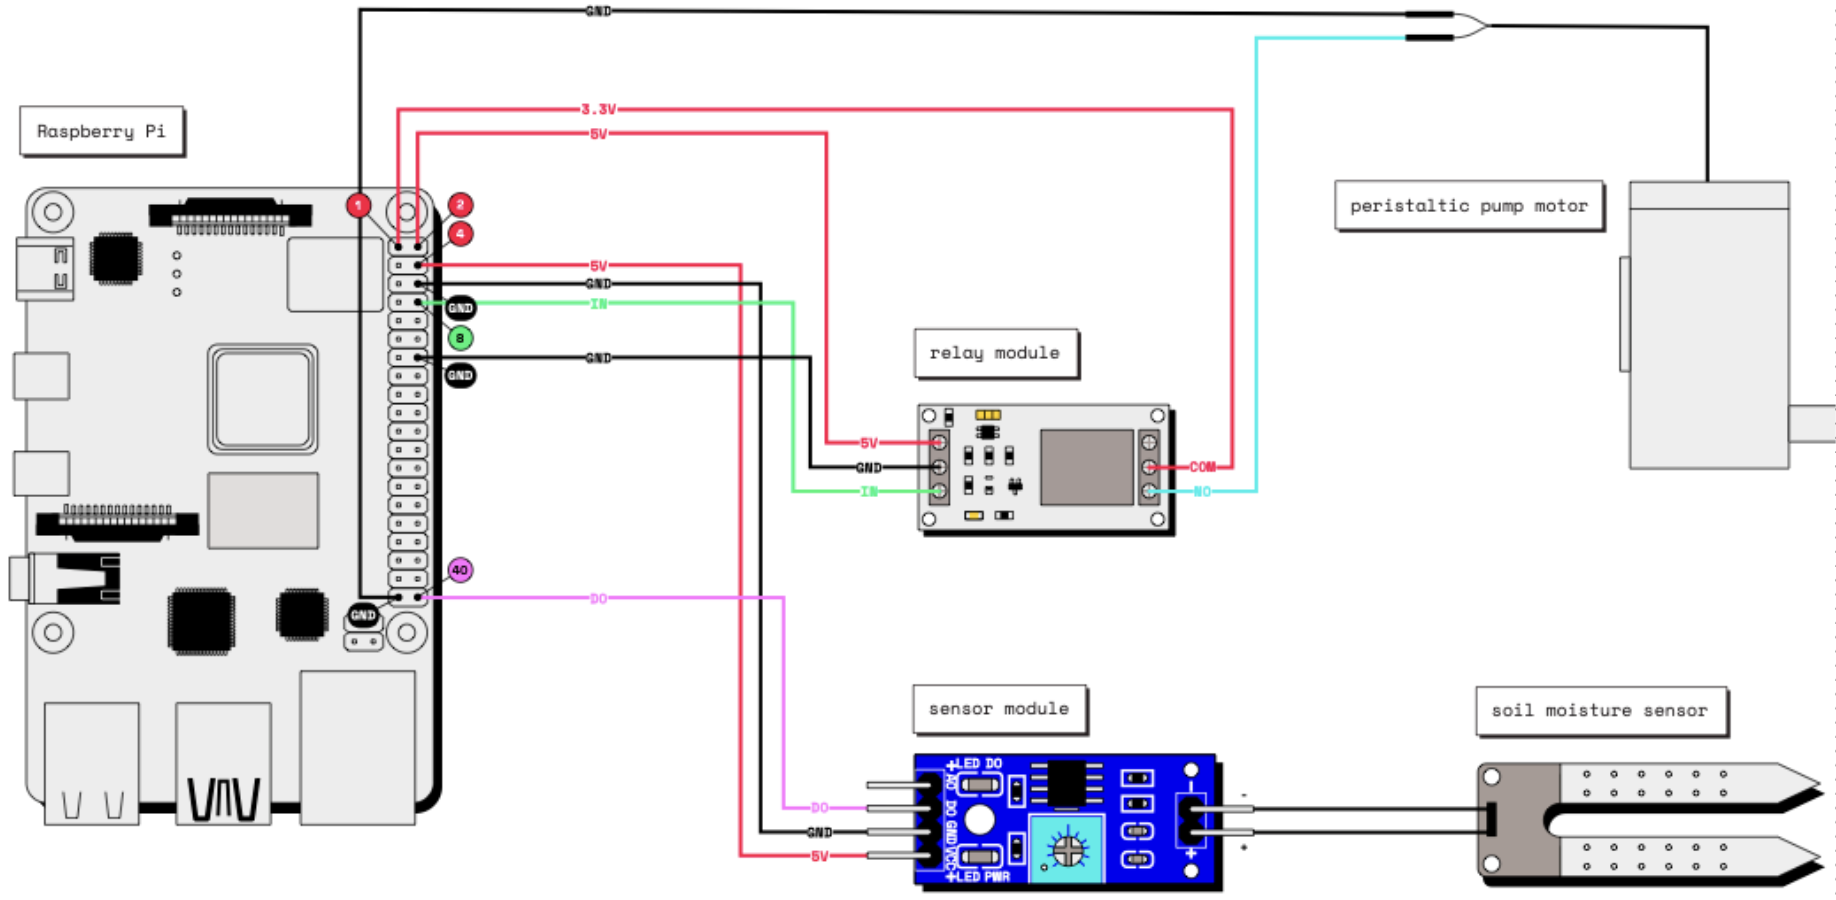
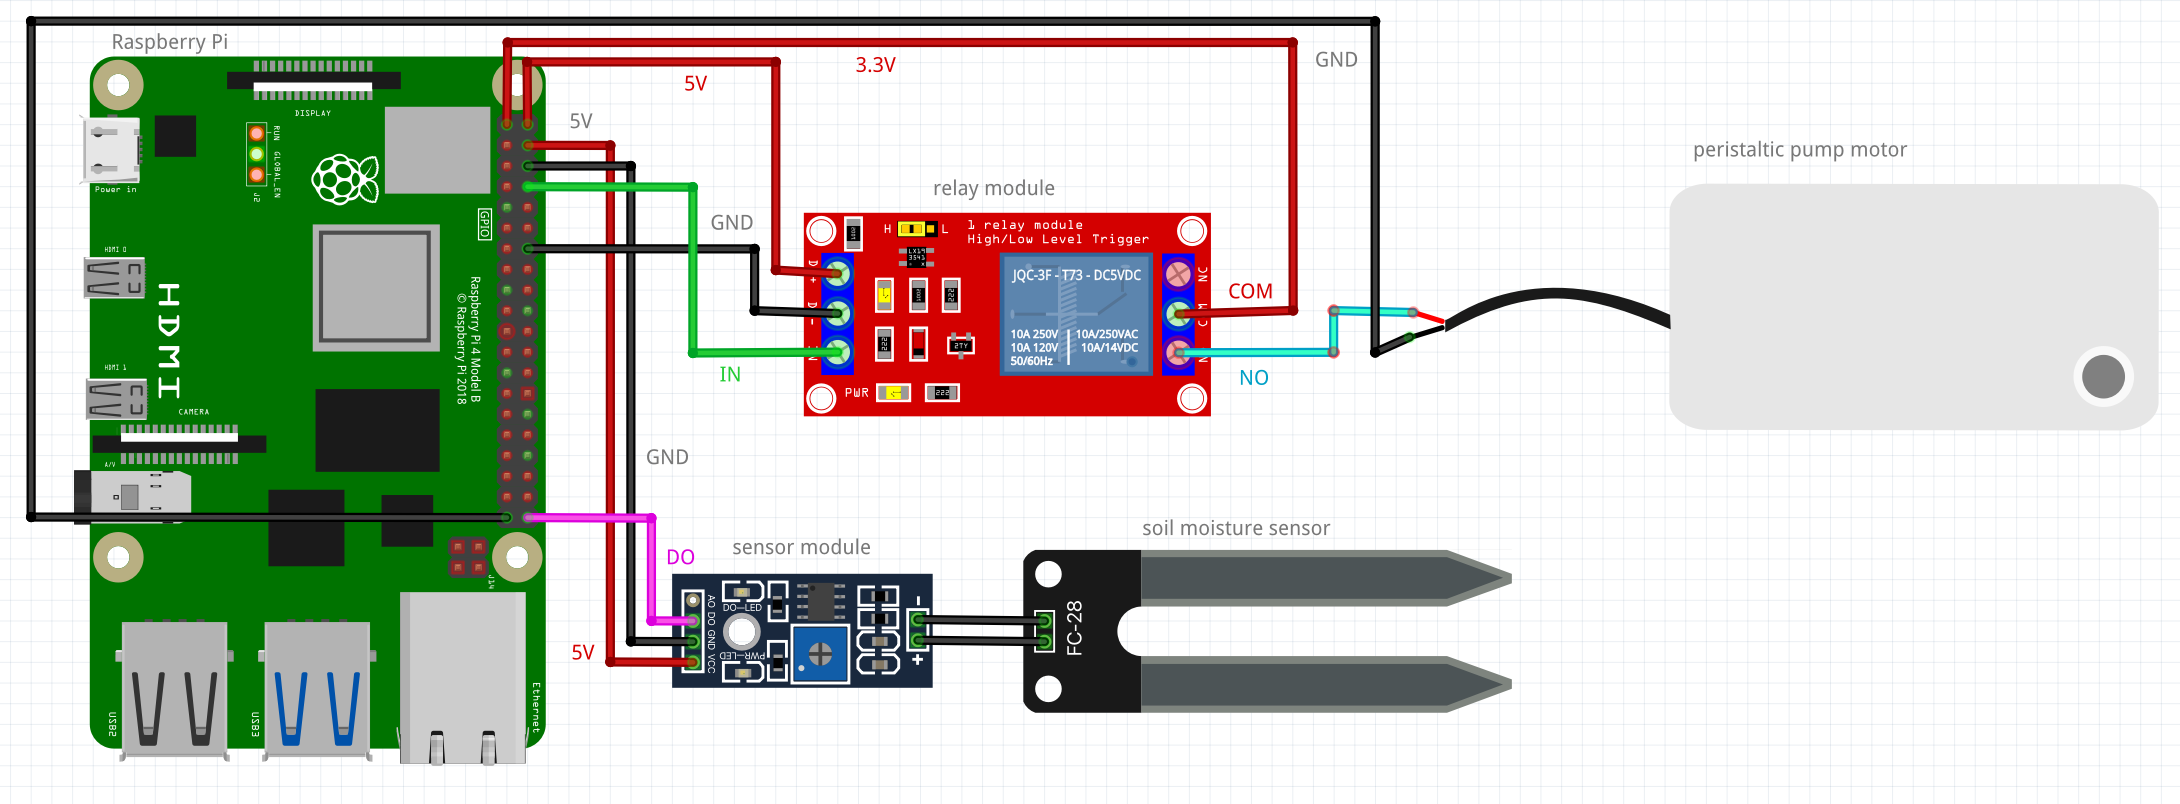
update wiring diagrams and add link to educators page

diff --git a/site/viamguides/src/workshop-plant-watering/workshop-plant-watering.md b/site/viamguides/src/workshop-plant-watering/workshop-plant-watering.md
@@ -19,7 +19,7 @@ Duration: 2
 >
 > - [**Build an automatic plant watering device**](https://codelabs.viam.com/guide/plant-watering-device-workshop/index.html?index=..%2F..index#0)
 
-This codelab provides a suggested delivery plan and resources for instructors interested in delivering a hands-on workshop. Take these resources, and make it your own!
+This codelab is part of the [Viam for educators](https://education.viam.com/) program, and provides a suggested delivery plan and resources for instructors interested in delivering a hands-on workshop. Take these resources, and make it your own!
 
 ### Workshop Overview
 
@@ -168,7 +168,6 @@ Connect your Raspberry Pi to the relay module:
 - PIN 14 (GND) to GND
 - PIN 8 (GPIO 14) to IN
 
-
 Last step in the wiring section is connecting the relay and Raspberry Pi to the pump. The wire connectors may be required to connect the jumper wires to the bare wires coming from the pump motor:
 
 - NO (Normally Open) on the relay module to either of the pump motor wires
@@ -259,7 +258,6 @@ Duration: 30
   <input type="radio" value="To eliminate the need for a physical Raspberry Pi.">
   <input type="radio" value="To ensure the machine only works offline.">
 </form>
-
 
 ### Add your Raspberry Pi
 

diff --git a/site/viamguides/src/workshop-people/workshop-people.md b/site/viamguides/src/workshop-people/workshop-people.md
@@ -15,7 +15,7 @@ tags: Workshop, Developer
 
 Duration: 2
 
-This codelab provides a suggested delivery plan and resources for instructors interested in delivering a hands-on workshop. Take these resources, and make it your own!
+This codelab is part of the [Viam for educators](https://education.viam.com/) program, and provides a suggested delivery plan and resources for instructors interested in delivering a hands-on workshop. Take these resources, and make it your own!
 
 ### Workshop Overview
 
@@ -199,7 +199,7 @@ The Raspberry Pi boots from a USB flash drive (or microSD card). You need to ins
 1. **Connect the webcam**: Connect the webcam's USB lead to any USB port on your Pi. The webcam transmits video data to the Raspberry Pi through the USB interface.
 1. **Connect the piezo buzzer**: The passive piezo buzzer can be controlled via a GPIO pin on the Raspberry Pi. Refer to the following wiring diagram to connect the Raspberry Pi to the piezo buzzer.
 
-![wiring diagram](assets/piezoWiringDiagram.png)
+![wiring diagram](assets/wiring.png)
 
 - Pin 35 (GPIO 19) to Positive
 - Pin 39 (GND) to Negative

diff --git a/site/viamguides/src/workshop-air-monitoring/workshop-air-monitoring.md b/site/viamguides/src/workshop-air-monitoring/workshop-air-monitoring.md
@@ -20,7 +20,7 @@ Duration: 2
 >
 > - [**Automate air filtration with air quality sensors**](https://codelabs.viam.com/guide/air-quality/index.html?index=..%2F..index#0)
 
-This codelab provides a suggested delivery plan and resources for instructors interested in delivering a hands-on workshop. Take these resources, and make it your own!
+This codelab is part of the [Viam for educators](https://education.viam.com/) program, and provides a suggested delivery plan and resources for instructors interested in delivering a hands-on workshop. Take these resources, and make it your own!
 
 ### Workshop Overview
 

diff --git a/site/viamguides/src/workshop-rover/workshop-rover.md b/site/viamguides/src/workshop-rover/workshop-rover.md
@@ -19,7 +19,7 @@ Duration: 2
 >
 > - [**Drive a rover using TypeScript**](https://codelabs.viam.com/guide/drive-rover-ts/index.html?index=..%2F..index#0)
 
-This codelab provides a suggested delivery plan and resources for instructors interested in delivering a hands-on workshop. Take these resources, and make it your own!
+This codelab is part of the [Viam for educators](https://education.viam.com/) program, and provides a suggested delivery plan and resources for instructors interested in delivering a hands-on workshop. Take these resources, and make it your own!
 
 ### Workshop Overview
 
